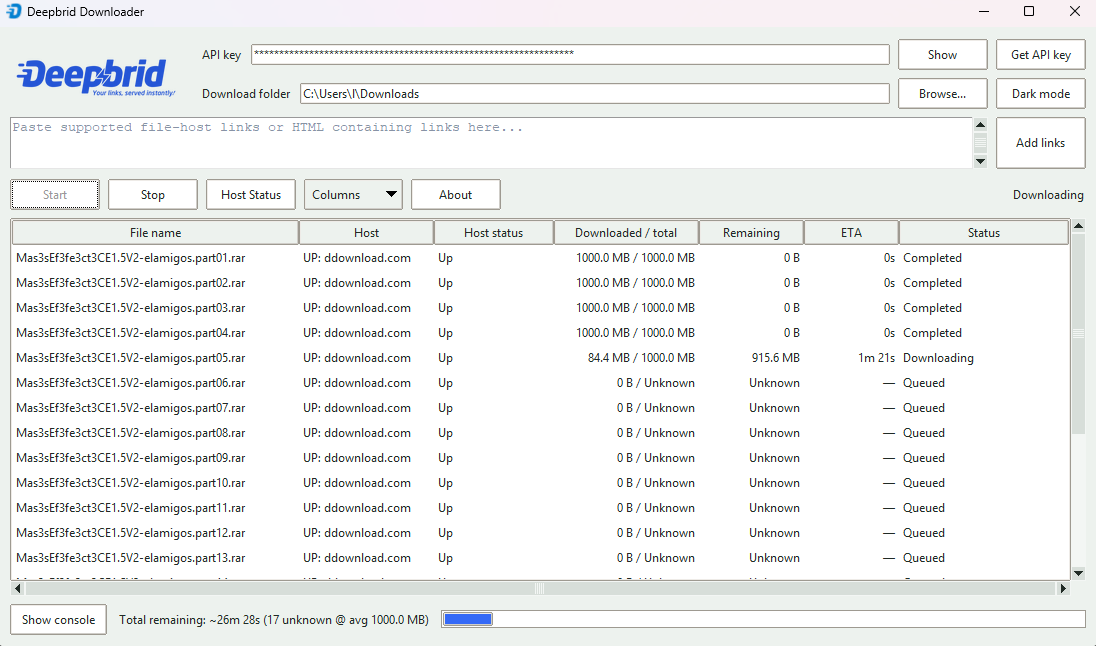
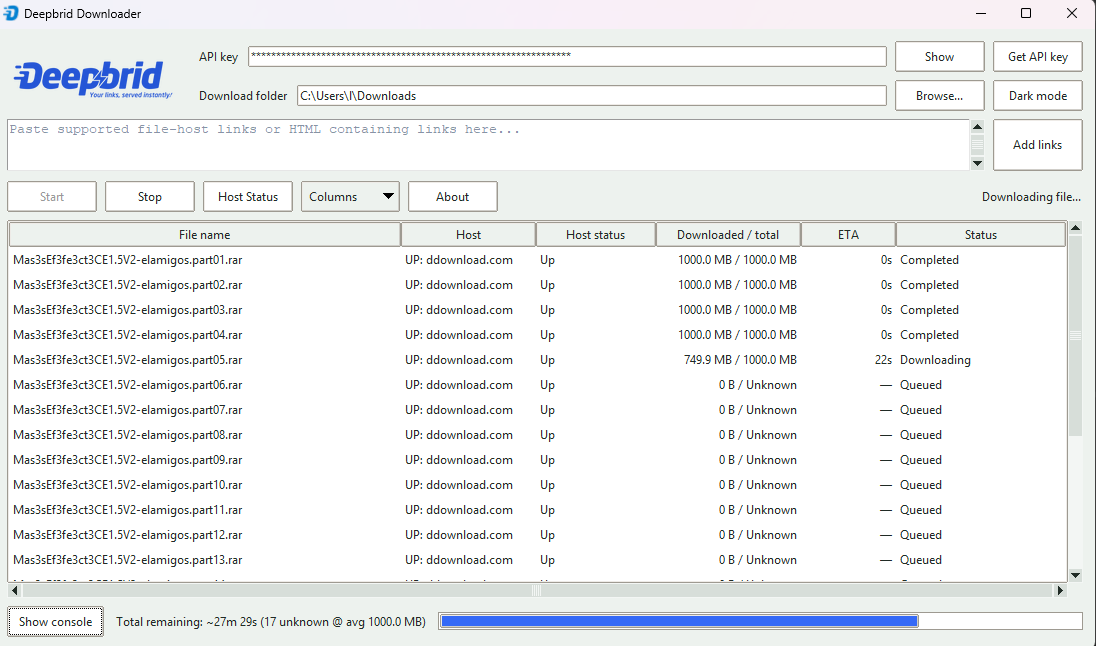
Refactor column management: remove 'remaining' from DEFAULT_COLUMNS and update related tests

diff --git a/src/app.py b/src/app.py
@@ -58,7 +58,7 @@ ICON_PATH = RESOURCE_ROOT / "src" / "deepbrid-logo.png"
 ICON_ICO_PATH = RESOURCE_ROOT / "src" / "deepbrid-favicon.ico"
 WORDMARK_PATH = RESOURCE_ROOT / "src" / "deepbrid-wordmark.png"
 WORDMARK_LIGHT_PATH = RESOURCE_ROOT / "src" / "deepbrid-wordmark-light.png"
-DEFAULT_COLUMNS = ("filename", "host", "status", "size", "remaining", "time_remaining", "eta")
+DEFAULT_COLUMNS = ("filename", "host", "status", "size", "time_remaining", "eta")
 LINK_PLACEHOLDER = "Paste supported file-host links or HTML containing links here..."
 API_KEY_DASHBOARD_URL = "https://www.deepbrid.com/devices"
 
@@ -326,6 +326,10 @@ class DownloaderApp:
                     self.visible_columns = [column for column in requested_columns if column in valid_columns]
                     if "eta" in self.visible_columns and "time_remaining" not in self.visible_columns:
                         self.visible_columns.insert(self.visible_columns.index("eta"), "time_remaining")
+                    if self.visible_columns == [
+                        "filename", "host", "status", "size", "remaining", "time_remaining", "eta"
+                    ]:
+                        self.visible_columns.remove("remaining")
                     if not self.visible_columns:
                         self.visible_columns = list(DEFAULT_COLUMNS)
             except json.JSONDecodeError:
@@ -1694,6 +1698,7 @@ class DownloaderApp:
                 continue
             self.store.update(item.id, status="generating", error=None)
             self._log(f"Starting queue item {item.id}: {item.url}")
+            self.events.put(("status", item.id, "Generating premium link..."))
             self.events.put(("refresh",))
             generated_url = None
             returned_name = None
@@ -1776,7 +1781,7 @@ class DownloaderApp:
                 self.active_cancel_events.pop(item.id, None)
                 continue
             self._log(f"Downloading {filename} to {output_dir}")
-            self.events.put(("status", item.id, "Downloading"))
+            self.events.put(("status", item.id, "Downloading file..."))
 
             last_database_update = 0.0
             last_ui_update = 0.0

diff --git a/tests/test_downloader.py b/tests/test_downloader.py
@@ -29,6 +29,7 @@ from src.app import (
     API_KEY_DASHBOARD_URL,
     APP_DATA_DIR,
     DATABASE_PATH,
+    DEFAULT_COLUMNS,
     DownloaderApp,
     LEGACY_DATABASE_PATH,
     LEGACY_QUEUE_DATABASE_PATH,
@@ -755,6 +756,7 @@ class ValidationAndPresentationTests(unittest.TestCase):
             self.assertIn("not a folder", validate_output_folder(file_path))
 
     def test_byte_duration_and_sort_values_are_consistent(self) -> None:
+        self.assertNotIn("remaining", DEFAULT_COLUMNS)
         self.assertEqual(format_bytes(1024), "1.0 KB")
         self.assertEqual(format_bytes(None), "Unknown")
         self.assertEqual(format_duration(3661), "1h 1m")
